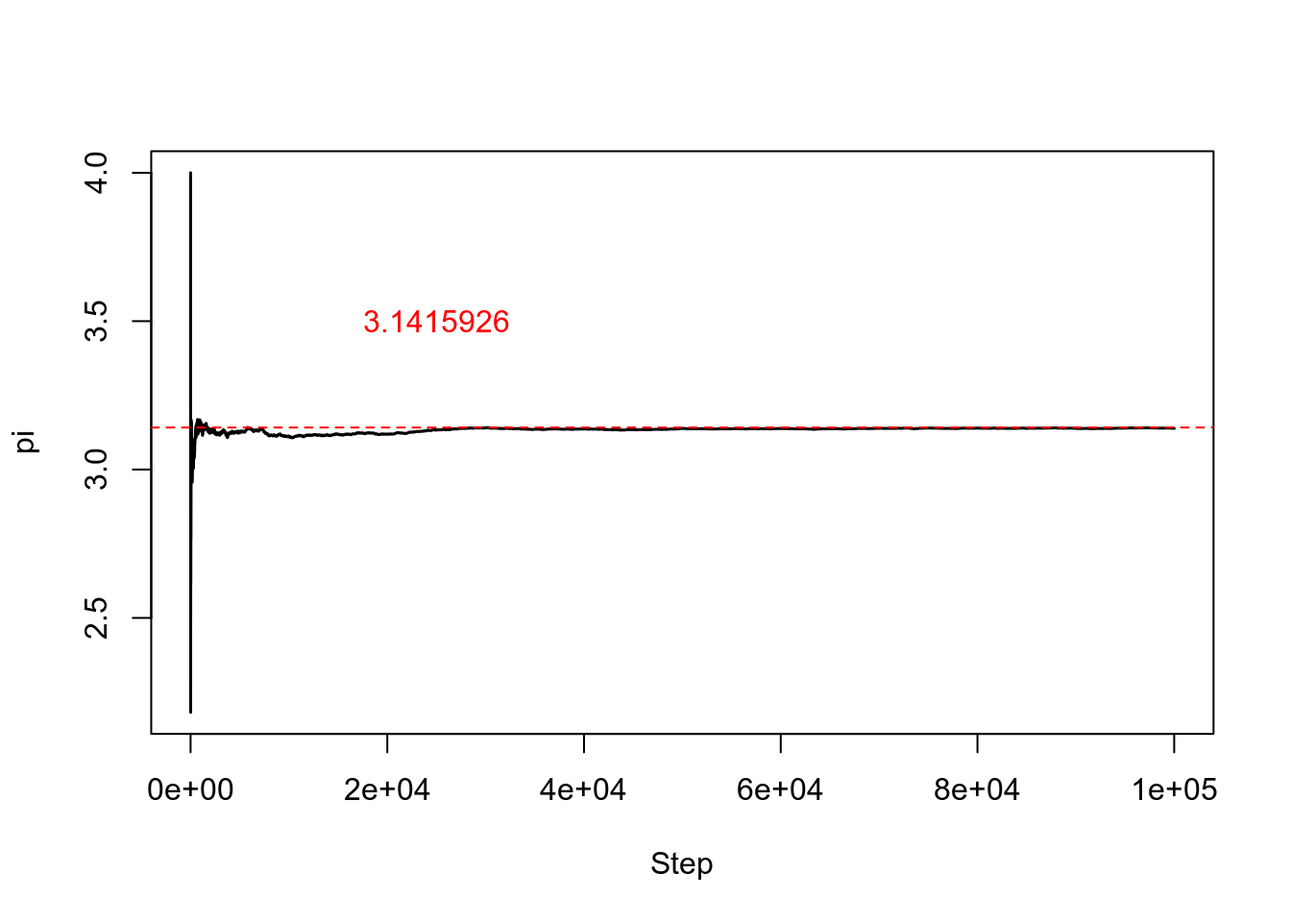
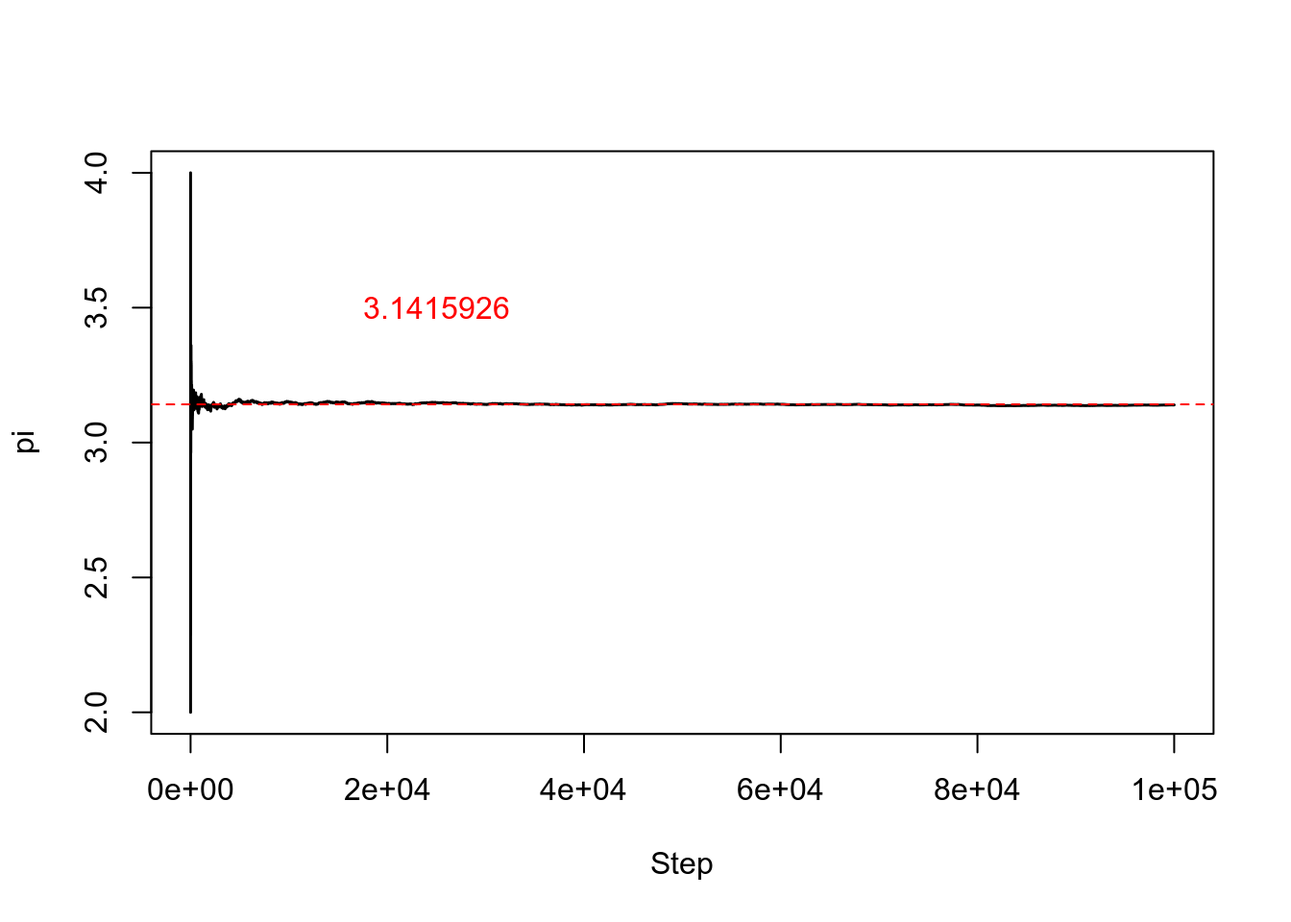
Update

diff --git a/docs/Section_02.html b/docs/Section_02.html
@@ -784,126 +784,126 @@ div.tocify {
 <a class="sourceLine" id="cb99-4" data-line-number="4">    <span class="kw">print</span>(<span class="kw">paste</span>(Daily_T,Hourly_T))</a>
 <a class="sourceLine" id="cb99-5" data-line-number="5">  }</a>
 <a class="sourceLine" id="cb99-6" data-line-number="6">}</a></code></pre></div>
-<pre><code>## [1] &quot;28 29.6744388085805&quot;
-## [1] &quot;28 27.4012870568051&quot;
-## [1] &quot;28 28.7637988334997&quot;
-## [1] &quot;28 28.5058081857116&quot;
-## [1] &quot;28 23.7769385588716&quot;
-## [1] &quot;28 28.2238910189283&quot;
-## [1] &quot;28 31.3927432581119&quot;
-## [1] &quot;28 20.487633630523&quot;
-## [1] &quot;28 23.8106293834658&quot;
-## [1] &quot;28 26.2348254862517&quot;
-## [1] &quot;28 21.0651710107857&quot;
-## [1] &quot;28 27.2263796495635&quot;
-## [1] &quot;28 21.4522353343564&quot;
-## [1] &quot;28 25.6079509452649&quot;
-## [1] &quot;28 21.0087001654877&quot;
-## [1] &quot;28 14.9533784498431&quot;
-## [1] &quot;28 26.2865859592602&quot;
-## [1] &quot;28 29.4904217704299&quot;
-## [1] &quot;28 37.3132193368315&quot;
-## [1] &quot;28 27.9445794066808&quot;
-## [1] &quot;28 34.1086614260885&quot;
-## [1] &quot;28 9.36264851099768&quot;
-## [1] &quot;28 26.1232968333402&quot;
-## [1] &quot;28 25.9718018096231&quot;
-## [1] &quot;27 35.9338242788917&quot;
-## [1] &quot;27 27.6171356132851&quot;
-## [1] &quot;27 25.5917239565176&quot;
-## [1] &quot;27 22.9672899949726&quot;
-## [1] &quot;27 28.8216742180096&quot;
-## [1] &quot;27 20.5011522096114&quot;
-## [1] &quot;27 29.4077025035996&quot;
-## [1] &quot;27 28.9766310500479&quot;
-## [1] &quot;27 30.2632421848424&quot;
-## [1] &quot;27 30.489745799776&quot;
-## [1] &quot;27 25.8090876055111&quot;
-## [1] &quot;27 36.2967261762487&quot;
-## [1] &quot;27 27.6476787201186&quot;
-## [1] &quot;27 30.5838742470374&quot;
-## [1] &quot;27 19.3498184061484&quot;
-## [1] &quot;27 28.9101153753171&quot;
-## [1] &quot;27 28.7630782854165&quot;
-## [1] &quot;27 28.7589198691777&quot;
-## [1] &quot;27 19.4153178619472&quot;
-## [1] &quot;27 30.7558599406742&quot;
-## [1] &quot;27 20.5924854368382&quot;
-## [1] &quot;27 28.0581231875197&quot;
-## [1] &quot;27 28.6534313082414&quot;
-## [1] &quot;27 22.830998606105&quot;
-## [1] &quot;28 25.5680343643089&quot;
-## [1] &quot;28 35.2513360200614&quot;
-## [1] &quot;28 30.0510420563359&quot;
-## [1] &quot;28 24.9166005661484&quot;
-## [1] &quot;28 23.2115737652699&quot;
-## [1] &quot;28 21.4950843491537&quot;
-## [1] &quot;28 28.5984740842019&quot;
-## [1] &quot;28 27.4235958632072&quot;
-## [1] &quot;28 19.2919758524679&quot;
-## [1] &quot;28 26.2202249854402&quot;
-## [1] &quot;28 36.7028853146689&quot;
-## [1] &quot;28 29.3631927877853&quot;
-## [1] &quot;28 20.3308166607558&quot;
-## [1] &quot;28 27.0940209112858&quot;
-## [1] &quot;28 29.458643239669&quot;
-## [1] &quot;28 23.0123933283896&quot;
-## [1] &quot;28 26.1173158506581&quot;
-## [1] &quot;28 30.8679543816222&quot;
-## [1] &quot;28 25.3386115994626&quot;
-## [1] &quot;28 25.9863309627653&quot;
-## [1] &quot;28 32.6146125890556&quot;
-## [1] &quot;28 21.7261517115209&quot;
-## [1] &quot;28 28.5460085937639&quot;
-## [1] &quot;28 21.636362718639&quot;
-## [1] &quot;26 24.9172051081766&quot;
-## [1] &quot;26 22.5094377208676&quot;
-## [1] &quot;26 30.5072657634151&quot;
-## [1] &quot;26 17.2964222959154&quot;
-## [1] &quot;26 18.53812157159&quot;
-## [1] &quot;26 21.8185299482445&quot;
-## [1] &quot;26 14.5332480026857&quot;
-## [1] &quot;26 27.9540921498025&quot;
-## [1] &quot;26 17.3891011443086&quot;
-## [1] &quot;26 29.0233555451144&quot;
-## [1] &quot;26 21.22715496653&quot;
-## [1] &quot;26 33.5145726087301&quot;
-## [1] &quot;26 25.2940299221819&quot;
-## [1] &quot;26 23.6176730826548&quot;
-## [1] &quot;26 25.6853809677696&quot;
-## [1] &quot;26 29.7664752506619&quot;
-## [1] &quot;26 21.0337510916283&quot;
-## [1] &quot;26 32.4314704587092&quot;
-## [1] &quot;26 23.3749252503694&quot;
-## [1] &quot;26 31.8407479884832&quot;
-## [1] &quot;26 30.5019062541723&quot;
-## [1] &quot;26 29.0618189271607&quot;
-## [1] &quot;26 23.1327053345248&quot;
-## [1] &quot;26 28.0949906801551&quot;
-## [1] &quot;27 26.4566287279606&quot;
-## [1] &quot;27 31.570020710695&quot;
-## [1] &quot;27 29.4676193004918&quot;
-## [1] &quot;27 23.3798259587071&quot;
-## [1] &quot;27 28.5974055996294&quot;
-## [1] &quot;27 29.1021816049947&quot;
-## [1] &quot;27 24.5280884643229&quot;
-## [1] &quot;27 38.4433340632149&quot;
-## [1] &quot;27 21.120542625531&quot;
-## [1] &quot;27 21.094623221894&quot;
-## [1] &quot;27 25.4430148212402&quot;
-## [1] &quot;27 32.3261330490633&quot;
-## [1] &quot;27 30.3605032082787&quot;
-## [1] &quot;27 32.9106982505751&quot;
-## [1] &quot;27 26.8261867866592&quot;
-## [1] &quot;27 20.4859950002494&quot;
-## [1] &quot;27 26.7641472981468&quot;
-## [1] &quot;27 25.5869252686455&quot;
-## [1] &quot;27 32.422047937391&quot;
-## [1] &quot;27 32.7838959096584&quot;
-## [1] &quot;27 27.5707187866963&quot;
-## [1] &quot;27 29.2771246709087&quot;
-## [1] &quot;27 29.4556642394293&quot;
-## [1] &quot;27 28.7963948077422&quot;</code></pre>
+<pre><code>## [1] &quot;28 28.5203473726&quot;
+## [1] &quot;28 29.8567225222579&quot;
+## [1] &quot;28 24.3255714012938&quot;
+## [1] &quot;28 23.359917000298&quot;
+## [1] &quot;28 27.5047867058774&quot;
+## [1] &quot;28 27.5803263102182&quot;
+## [1] &quot;28 40.6260422959401&quot;
+## [1] &quot;28 26.9123316187499&quot;
+## [1] &quot;28 20.7585458195863&quot;
+## [1] &quot;28 34.6021658916856&quot;
+## [1] &quot;28 23.2393447137747&quot;
+## [1] &quot;28 25.7430401564787&quot;
+## [1] &quot;28 20.759988636458&quot;
+## [1] &quot;28 26.5830467189796&quot;
+## [1] &quot;28 31.7213020844977&quot;
+## [1] &quot;28 29.616032164188&quot;
+## [1] &quot;28 26.4802781835367&quot;
+## [1] &quot;28 25.0419118557096&quot;
+## [1] &quot;28 27.6385161827905&quot;
+## [1] &quot;28 26.1603798748846&quot;
+## [1] &quot;28 23.42866939025&quot;
+## [1] &quot;28 26.139434773415&quot;
+## [1] &quot;28 25.8811113174888&quot;
+## [1] &quot;28 27.5730295089246&quot;
+## [1] &quot;27 33.2294525363537&quot;
+## [1] &quot;27 26.4626389960159&quot;
+## [1] &quot;27 29.626524477593&quot;
+## [1] &quot;27 28.0767820123415&quot;
+## [1] &quot;27 28.828937166439&quot;
+## [1] &quot;27 25.5372134734387&quot;
+## [1] &quot;27 28.5334470709648&quot;
+## [1] &quot;27 18.1144727125865&quot;
+## [1] &quot;27 25.2457735843059&quot;
+## [1] &quot;27 29.366102786181&quot;
+## [1] &quot;27 27.1980432588762&quot;
+## [1] &quot;27 25.9226418672989&quot;
+## [1] &quot;27 33.0411538208596&quot;
+## [1] &quot;27 22.6495882511806&quot;
+## [1] &quot;27 30.6930189858685&quot;
+## [1] &quot;27 23.0038302688558&quot;
+## [1] &quot;27 26.9693216756604&quot;
+## [1] &quot;27 37.5181583208813&quot;
+## [1] &quot;27 32.1121618241471&quot;
+## [1] &quot;27 31.4238161581358&quot;
+## [1] &quot;27 29.8698345060225&quot;
+## [1] &quot;27 28.149411974243&quot;
+## [1] &quot;27 27.8573635205279&quot;
+## [1] &quot;27 29.5334132813719&quot;
+## [1] &quot;28 26.1239577941853&quot;
+## [1] &quot;28 25.398231222205&quot;
+## [1] &quot;28 29.7696555291078&quot;
+## [1] &quot;28 32.8606539755527&quot;
+## [1] &quot;28 27.2600072128946&quot;
+## [1] &quot;28 32.0781420833166&quot;
+## [1] &quot;28 25.7767580931736&quot;
+## [1] &quot;28 39.1527987119312&quot;
+## [1] &quot;28 23.1446344298041&quot;
+## [1] &quot;28 27.6091030223128&quot;
+## [1] &quot;28 23.6051035241422&quot;
+## [1] &quot;28 21.6544177022601&quot;
+## [1] &quot;28 30.2627549465631&quot;
+## [1] &quot;28 24.2250450321364&quot;
+## [1] &quot;28 27.4975742692505&quot;
+## [1] &quot;28 35.5974613795488&quot;
+## [1] &quot;28 27.4825745201007&quot;
+## [1] &quot;28 34.6350898257966&quot;
+## [1] &quot;28 28.2190230059355&quot;
+## [1] &quot;28 24.7975217267781&quot;
+## [1] &quot;28 14.722907873256&quot;
+## [1] &quot;28 27.9907867753777&quot;
+## [1] &quot;28 28.4250035386832&quot;
+## [1] &quot;28 28.5194249552746&quot;
+## [1] &quot;26 23.2856726081448&quot;
+## [1] &quot;26 25.4024727439078&quot;
+## [1] &quot;26 33.3035292785186&quot;
+## [1] &quot;26 25.28892471328&quot;
+## [1] &quot;26 27.1632677083546&quot;
+## [1] &quot;26 24.5350721006484&quot;
+## [1] &quot;26 29.3167931383925&quot;
+## [1] &quot;26 27.7137084923301&quot;
+## [1] &quot;26 22.8332063630745&quot;
+## [1] &quot;26 21.9011526760659&quot;
+## [1] &quot;26 27.4992350887363&quot;
+## [1] &quot;26 28.7591888754518&quot;
+## [1] &quot;26 22.54829160621&quot;
+## [1] &quot;26 28.360174618127&quot;
+## [1] &quot;26 27.9989495011719&quot;
+## [1] &quot;26 28.8171905925141&quot;
+## [1] &quot;26 32.1545033352125&quot;
+## [1] &quot;26 23.326552701675&quot;
+## [1] &quot;26 28.6807026882395&quot;
+## [1] &quot;26 30.080163843398&quot;
+## [1] &quot;26 28.1717898544718&quot;
+## [1] &quot;26 24.7374144806986&quot;
+## [1] &quot;26 17.8584988213208&quot;
+## [1] &quot;26 19.2616357623659&quot;
+## [1] &quot;27 22.7577712029148&quot;
+## [1] &quot;27 22.2228856929305&quot;
+## [1] &quot;27 29.1894600480396&quot;
+## [1] &quot;27 30.9750461284902&quot;
+## [1] &quot;27 29.2209540342978&quot;
+## [1] &quot;27 28.6382872798719&quot;
+## [1] &quot;27 25.4766813257235&quot;
+## [1] &quot;27 19.3298164987683&quot;
+## [1] &quot;27 27.317810004097&quot;
+## [1] &quot;27 25.351430269635&quot;
+## [1] &quot;27 25.7030143072523&quot;
+## [1] &quot;27 26.6982381041917&quot;
+## [1] &quot;27 25.4522362315785&quot;
+## [1] &quot;27 26.7716935995133&quot;
+## [1] &quot;27 27.7301581928896&quot;
+## [1] &quot;27 24.8179193047175&quot;
+## [1] &quot;27 18.7580789893466&quot;
+## [1] &quot;27 27.7716516943355&quot;
+## [1] &quot;27 22.5816221630369&quot;
+## [1] &quot;27 24.3388481490603&quot;
+## [1] &quot;27 17.66292071149&quot;
+## [1] &quot;27 21.9900016478595&quot;
+## [1] &quot;27 23.3327216288855&quot;
+## [1] &quot;27 26.3004093165131&quot;</code></pre>
 <p>Here at each <code>Hour</code> we use the <code>rnorm()</code> function to generate <code>1</code> random Gaussian sample with a mean of <code>Daily_T</code> and a standard deviation of <code>5</code>.</p>
 <p>We notice in the output that when the first index (<code>Daily_T</code>) is set to <code>28</code>, the second index (<code>Hour</code>) iterates through its full set of indices. Once the indices of <code>Hour</code> have been iterated through, then <code>Daily_T</code> moves to the next one (<em>i.e.</em>, <code>27</code>). This process continues until the last index has been used for each <code>for()</code> loop.</p>
 <p>Rather than printing the results, we could write the loop output to a new <em>object</em>:</p>
@@ -917,26 +917,26 @@ div.tocify {
 <a class="sourceLine" id="cb101-8" data-line-number="8">}</a>
 <a class="sourceLine" id="cb101-9" data-line-number="9"></a>
 <a class="sourceLine" id="cb101-10" data-line-number="10"><span class="kw">print</span>(Output_List)</a></code></pre></div>
-<pre><code>##   [1] &quot;28 27.9213441990281&quot; &quot;28 26.5761242354722&quot; &quot;28 20.6756852550638&quot; &quot;28 24.0840084504633&quot; &quot;28 33.5592287937686&quot; &quot;28 31.0144018011512&quot;
-##   [7] &quot;28 29.5377298092579&quot; &quot;28 32.7160958181988&quot; &quot;28 24.6226933324697&quot; &quot;28 31.9664463028712&quot; &quot;28 23.8941298728601&quot; &quot;28 30.0979559606749&quot;
-##  [13] &quot;28 39.2571893150734&quot; &quot;28 22.7175284129168&quot; &quot;28 37.5086771249077&quot; &quot;28 35.0665585186027&quot; &quot;28 24.2206544063925&quot; &quot;28 23.0154136474806&quot;
-##  [19] &quot;28 31.6282374078791&quot; &quot;28 20.761767430514&quot;  &quot;28 25.373501617015&quot;  &quot;28 33.0912035880969&quot; &quot;28 23.9530747196136&quot; &quot;28 32.0036821080584&quot;
-##  [25] &quot;27 24.3135106749697&quot; &quot;27 25.9781035721444&quot; &quot;27 28.9002649838499&quot; &quot;27 32.7377522456248&quot; &quot;27 23.7303160345988&quot; &quot;27 26.127164394269&quot; 
-##  [31] &quot;27 32.9857139922405&quot; &quot;27 26.9379089940996&quot; &quot;27 28.1589692080047&quot; &quot;27 26.5775985275108&quot; &quot;27 25.2821148656311&quot; &quot;27 34.5098778866584&quot;
-##  [37] &quot;27 21.7191210044909&quot; &quot;27 35.2865843885519&quot; &quot;27 31.2060954018028&quot; &quot;27 21.7008523487989&quot; &quot;27 27.0147486703075&quot; &quot;27 20.796057308874&quot; 
-##  [43] &quot;27 16.3694653413377&quot; &quot;27 22.8962902370385&quot; &quot;27 27.3354416140579&quot; &quot;27 28.9244594280794&quot; &quot;27 26.6022292542626&quot; &quot;27 32.0273648368767&quot;
-##  [49] &quot;28 38.7587700594925&quot; &quot;28 38.0563215477142&quot; &quot;28 27.004080184577&quot;  &quot;28 30.1832754844835&quot; &quot;28 19.6891862174256&quot; &quot;28 34.8235381426307&quot;
-##  [55] &quot;28 40.8487032034499&quot; &quot;28 24.3282659313597&quot; &quot;28 24.4550164826587&quot; &quot;28 25.2814696831749&quot; &quot;28 27.9790954115158&quot; &quot;28 22.4036076586669&quot;
-##  [61] &quot;28 32.9339635283036&quot; &quot;28 26.8419979627695&quot; &quot;28 32.7361578733019&quot; &quot;28 29.6732417945083&quot; &quot;28 22.0386111746376&quot; &quot;28 25.7607672971092&quot;
-##  [67] &quot;28 30.2842784670114&quot; &quot;28 35.0459872993593&quot; &quot;28 31.902200112414&quot;  &quot;28 18.8410608809311&quot; &quot;28 24.3736141436853&quot; &quot;28 30.684080147265&quot; 
-##  [73] &quot;26 29.5398966554751&quot; &quot;26 19.7075930847319&quot; &quot;26 25.509084559148&quot;  &quot;26 26.9585243477346&quot; &quot;26 30.3421914587566&quot; &quot;26 30.2879025821351&quot;
-##  [79] &quot;26 27.9068147213418&quot; &quot;26 25.2041260320341&quot; &quot;26 21.8459009732687&quot; &quot;26 19.5088731709808&quot; &quot;26 23.4298051230572&quot; &quot;26 24.6641766891913&quot;
-##  [85] &quot;26 32.6762300353602&quot; &quot;26 26.9850536092177&quot; &quot;26 30.024342717169&quot;  &quot;26 22.4293372805145&quot; &quot;26 22.6093058711638&quot; &quot;26 24.0107334213927&quot;
-##  [91] &quot;26 28.9647121241304&quot; &quot;26 24.1218724417364&quot; &quot;26 15.1542820915823&quot; &quot;26 31.5209016276321&quot; &quot;26 12.2711857762894&quot; &quot;26 21.5510352864343&quot;
-##  [97] &quot;27 20.1702538210369&quot; &quot;27 31.0131566999536&quot; &quot;27 26.2961643971118&quot; &quot;27 20.369920649569&quot;  &quot;27 33.2273840368351&quot; &quot;27 20.556714089822&quot; 
-## [103] &quot;27 33.5057917374892&quot; &quot;27 31.0643449624124&quot; &quot;27 23.9113459885551&quot; &quot;27 24.951434853857&quot;  &quot;27 21.2511551551434&quot; &quot;27 20.715480915084&quot; 
-## [109] &quot;27 35.0529400165995&quot; &quot;27 32.0613530241306&quot; &quot;27 28.0682977210073&quot; &quot;27 38.4854217120985&quot; &quot;27 19.5799861029875&quot; &quot;27 32.7881822464164&quot;
-## [115] &quot;27 24.9292155549766&quot; &quot;27 23.2738105231541&quot; &quot;27 24.3956599947915&quot; &quot;27 23.1030697736767&quot; &quot;27 29.9152315522481&quot; &quot;27 23.6778825604713&quot;</code></pre>
+<pre><code>##   [1] &quot;28 33.9294152054925&quot; &quot;28 25.3060747851852&quot; &quot;28 27.1930137624551&quot; &quot;28 41.0879887766354&quot; &quot;28 19.8979478543381&quot; &quot;28 32.3041504224614&quot;
+##   [7] &quot;28 23.5051264384035&quot; &quot;28 28.1846910956922&quot; &quot;28 27.9845071751903&quot; &quot;28 26.8569603785333&quot; &quot;28 34.5134288495436&quot; &quot;28 35.5525429245087&quot;
+##  [13] &quot;28 35.767111848357&quot;  &quot;28 27.4977309722429&quot; &quot;28 35.8378912924308&quot; &quot;28 25.5722628864578&quot; &quot;28 31.2641009861566&quot; &quot;28 19.6729759056108&quot;
+##  [19] &quot;28 26.0413056811166&quot; &quot;28 22.1031785317414&quot; &quot;28 20.8213148282127&quot; &quot;28 28.4254001577688&quot; &quot;28 29.783254807574&quot;  &quot;28 33.0836226825879&quot;
+##  [25] &quot;27 20.4441561201301&quot; &quot;27 31.3951679394279&quot; &quot;27 18.8018724238299&quot; &quot;27 25.7217268403832&quot; &quot;27 22.7412392108788&quot; &quot;27 28.9985264364984&quot;
+##  [31] &quot;27 30.2585011452224&quot; &quot;27 30.9737625952636&quot; &quot;27 29.560801177125&quot;  &quot;27 31.0228868009981&quot; &quot;27 23.5323134662271&quot; &quot;27 28.2765576055561&quot;
+##  [37] &quot;27 14.6154393944821&quot; &quot;27 33.8522666170453&quot; &quot;27 37.5423503861746&quot; &quot;27 25.7334826798523&quot; &quot;27 22.26456380279&quot;   &quot;27 22.1548399489591&quot;
+##  [43] &quot;27 29.2825348694902&quot; &quot;27 27.6848280181523&quot; &quot;27 27.9831604125515&quot; &quot;27 31.9769102131404&quot; &quot;27 33.0352839472289&quot; &quot;27 33.1107577354079&quot;
+##  [49] &quot;28 21.1651467065001&quot; &quot;28 20.7122149917504&quot; &quot;28 23.5019732146498&quot; &quot;28 23.6376282096579&quot; &quot;28 19.6419048235193&quot; &quot;28 25.391570869299&quot; 
+##  [55] &quot;28 28.6905351977948&quot; &quot;28 29.2051618018101&quot; &quot;28 25.0421643290245&quot; &quot;28 28.4587544452584&quot; &quot;28 26.2876588882981&quot; &quot;28 29.237986330029&quot; 
+##  [61] &quot;28 29.6775450272903&quot; &quot;28 32.1842522860615&quot; &quot;28 33.8892353956697&quot; &quot;28 27.9324902972241&quot; &quot;28 28.8458749981297&quot; &quot;28 20.8150707414374&quot;
+##  [67] &quot;28 35.6709363316221&quot; &quot;28 26.4655641950104&quot; &quot;28 27.4079956401864&quot; &quot;28 26.3032993774204&quot; &quot;28 26.107442123543&quot;  &quot;28 24.3052469505083&quot;
+##  [73] &quot;26 31.8731457792471&quot; &quot;26 20.0590262737721&quot; &quot;26 24.1009500848027&quot; &quot;26 31.103570675403&quot;  &quot;26 24.7257242490613&quot; &quot;26 23.8615254551108&quot;
+##  [79] &quot;26 16.2175011384569&quot; &quot;26 28.5911603220102&quot; &quot;26 28.4033994695427&quot; &quot;26 25.7565505003411&quot; &quot;26 24.4656838663904&quot; &quot;26 21.3338289647166&quot;
+##  [85] &quot;26 28.9847813112783&quot; &quot;26 29.4389750739868&quot; &quot;26 25.0388958461353&quot; &quot;26 22.7173183639716&quot; &quot;26 28.9140331932851&quot; &quot;26 19.8421145234758&quot;
+##  [91] &quot;26 32.2241157691078&quot; &quot;26 28.2029181217667&quot; &quot;26 20.3625620615812&quot; &quot;26 30.5918387491612&quot; &quot;26 19.5022961252912&quot; &quot;26 28.3581029321038&quot;
+##  [97] &quot;27 26.7195045597075&quot; &quot;27 34.9182001683988&quot; &quot;27 31.0702718031583&quot; &quot;27 25.3072223120803&quot; &quot;27 22.6013736594138&quot; &quot;27 29.4135975943558&quot;
+## [103] &quot;27 35.00603359216&quot;   &quot;27 32.5159394849905&quot; &quot;27 21.3538232737478&quot; &quot;27 25.6006129774197&quot; &quot;27 25.3459490000201&quot; &quot;27 32.5140854994036&quot;
+## [109] &quot;27 31.9843730585127&quot; &quot;27 34.6192056977642&quot; &quot;27 30.6060961455537&quot; &quot;27 23.4969244667469&quot; &quot;27 29.1783400792292&quot; &quot;27 20.6840359578125&quot;
+## [115] &quot;27 30.2588830673374&quot; &quot;27 23.0782333662094&quot; &quot;27 37.0858531862922&quot; &quot;27 21.618186263877&quot;  &quot;27 31.3772643547228&quot; &quot;27 23.4790799640886&quot;</code></pre>
 <p>This approach can be useful, but “growing your results” (building the result object incrementally) is <strong>computationally inefficient</strong>, so avoid it when you are iterating through a lot of values.</p>
 <p><strong>Important</strong>: One of the biggest things that trips up novices and experienced R users alike, is building a results object (<em>vector</em>, <em>list</em>, <em>matrix</em>, <em>data frame</em>) as your for loop progresses. Computers are very bad at handling this, so your calculations can very quickly slow to a crawl. It’s much better to define an <strong>empty results object</strong> beforehand of appropriate dimensions, rather than initializing an empty object without dimensions. So if you know the end result will be stored in a matrix-like above, create an empty matrix with <code>5</code> row and <code>24</code> columns, then at each iteration stores the results in the appropriate location.</p>
 <div class="sourceCode" id="cb103"><pre class="sourceCode r"><code class="sourceCode r"><a class="sourceLine" id="cb103-1" data-line-number="1">Output_Matrix    &lt;-<span class="st"> </span><span class="kw">matrix</span>(<span class="dt">nrow=</span><span class="dv">5</span>, <span class="dt">ncol=</span><span class="dv">24</span>)</a>
@@ -950,26 +950,26 @@ div.tocify {
 <a class="sourceLine" id="cb103-9" data-line-number="9">}</a>
 <a class="sourceLine" id="cb103-10" data-line-number="10">Output_Matrix2 &lt;-<span class="st"> </span><span class="kw">as.vector</span>(Output_Matrix)</a>
 <a class="sourceLine" id="cb103-11" data-line-number="11">Output_Matrix2</a></code></pre></div>
-<pre><code>##   [1] &quot;28 26.9973512707264&quot; &quot;27 22.0005568885176&quot; &quot;28 22.9526029840331&quot; &quot;26 23.6346722560231&quot; &quot;27 27.1338201905649&quot; &quot;28 28.0243829767442&quot;
-##   [7] &quot;27 33.4630110805913&quot; &quot;28 12.6764845903665&quot; &quot;26 14.6019278852403&quot; &quot;27 21.1446194198811&quot; &quot;28 28.7547833155774&quot; &quot;27 33.0168104577772&quot;
-##  [13] &quot;28 27.7930152969528&quot; &quot;26 23.1738057523555&quot; &quot;27 26.0142016247349&quot; &quot;28 30.3627429588951&quot; &quot;27 28.2494831675139&quot; &quot;28 25.3102684752284&quot;
-##  [19] &quot;26 35.9719562415039&quot; &quot;27 31.5060478283057&quot; &quot;28 32.7069618715868&quot; &quot;27 25.3966621085007&quot; &quot;28 26.0779577875407&quot; &quot;26 10.3878262341955&quot;
-##  [25] &quot;27 23.5526452011224&quot; &quot;28 22.6967125737084&quot; &quot;27 19.5111049740388&quot; &quot;28 28.0592304783506&quot; &quot;26 31.0804307408716&quot; &quot;27 31.7959811997342&quot;
-##  [31] &quot;28 36.5336496905236&quot; &quot;27 28.4128453235108&quot; &quot;28 32.3306171696235&quot; &quot;26 19.3213990742264&quot; &quot;27 28.3715391126557&quot; &quot;28 18.4438617281665&quot;
-##  [37] &quot;27 17.8323748814752&quot; &quot;28 22.107079312802&quot;  &quot;26 24.2797181661078&quot; &quot;27 29.161796997209&quot;  &quot;28 39.4601076956966&quot; &quot;27 30.7414272650752&quot;
-##  [43] &quot;28 27.1665593564684&quot; &quot;26 20.5344450158271&quot; &quot;27 23.0169901694081&quot; &quot;28 19.1385253494344&quot; &quot;27 27.9882132199026&quot; &quot;28 21.4705732647758&quot;
-##  [49] &quot;26 30.8070327256172&quot; &quot;27 32.1047746580533&quot; &quot;28 13.9825583696442&quot; &quot;27 32.8211288754374&quot; &quot;28 32.3895822933634&quot; &quot;26 28.1890631633708&quot;
-##  [55] &quot;27 19.0313447989609&quot; &quot;28 25.2301887476755&quot; &quot;27 31.0306952145933&quot; &quot;28 27.8857418697533&quot; &quot;26 27.4713276561054&quot; &quot;27 20.6316690942855&quot;
-##  [61] &quot;28 37.3612268746202&quot; &quot;27 26.6309168198463&quot; &quot;28 32.4465408678168&quot; &quot;26 30.6345041346007&quot; &quot;27 29.4479132922708&quot; &quot;28 26.3804152046903&quot;
-##  [67] &quot;27 27.3599933724447&quot; &quot;28 32.224505007817&quot;  &quot;26 30.093690127337&quot;  &quot;27 34.1778328165426&quot; &quot;28 22.650013225021&quot;  &quot;27 27.6565083475854&quot;
-##  [73] &quot;28 26.6386373669437&quot; &quot;26 28.9052955234798&quot; &quot;27 32.2049510013909&quot; &quot;28 32.4843208633791&quot; &quot;27 29.2806070419436&quot; &quot;28 29.9107143279775&quot;
-##  [79] &quot;26 27.2465726357159&quot; &quot;27 24.3715133673669&quot; &quot;28 23.8488237317963&quot; &quot;27 27.6212273715854&quot; &quot;28 31.8813335209282&quot; &quot;26 16.1242002497669&quot;
-##  [85] &quot;27 27.0589827938141&quot; &quot;28 28.7150888266976&quot; &quot;27 29.1747285473463&quot; &quot;28 33.5815077639439&quot; &quot;26 20.2880182477447&quot; &quot;27 21.5449817306979&quot;
-##  [91] &quot;28 32.1709624908535&quot; &quot;27 36.1626903675003&quot; &quot;28 32.4676130467136&quot; &quot;26 31.7742452499902&quot; &quot;27 22.8675855680406&quot; &quot;28 37.2947114689322&quot;
-##  [97] &quot;27 28.5800476230911&quot; &quot;28 22.1301971247288&quot; &quot;26 25.3162492068271&quot; &quot;27 24.5844853935916&quot; &quot;28 27.1941593304091&quot; &quot;27 23.7437142919091&quot;
-## [103] &quot;28 27.9516326726235&quot; &quot;26 19.2561321892133&quot; &quot;27 24.8742761169051&quot; &quot;28 26.8528222253426&quot; &quot;27 24.141679909815&quot;  &quot;28 33.2231300545563&quot;
-## [109] &quot;26 28.8505900196766&quot; &quot;27 27.5599216762732&quot; &quot;28 23.7947343042173&quot; &quot;27 24.312577506446&quot;  &quot;28 28.1401888832194&quot; &quot;26 21.4761660502353&quot;
-## [115] &quot;27 30.2239947653997&quot; &quot;28 37.319568990894&quot;  &quot;27 29.7347189134744&quot; &quot;28 23.2793314988755&quot; &quot;26 30.2686596684757&quot; &quot;27 24.6836912806353&quot;</code></pre>
+<pre><code>##   [1] &quot;28 28.5409345294627&quot; &quot;27 32.5348623345225&quot; &quot;28 23.1415628229932&quot; &quot;26 25.9911443690935&quot; &quot;27 27.948805121641&quot;  &quot;28 28.7895220444746&quot;
+##   [7] &quot;27 22.0536756448938&quot; &quot;28 19.0361832343768&quot; &quot;26 33.0321463161779&quot; &quot;27 17.1315622406557&quot; &quot;28 21.8077979964713&quot; &quot;27 18.2934689472492&quot;
+##  [13] &quot;28 29.3603548150351&quot; &quot;26 26.5589536466656&quot; &quot;27 31.8453628674607&quot; &quot;28 34.2140282991574&quot; &quot;27 28.7979241233569&quot; &quot;28 25.253026531923&quot; 
+##  [19] &quot;26 28.1085972878407&quot; &quot;27 26.0052641339814&quot; &quot;28 34.8875911437456&quot; &quot;27 24.4447350171089&quot; &quot;28 33.2939154610865&quot; &quot;26 27.5442592880496&quot;
+##  [25] &quot;27 29.026728786242&quot;  &quot;28 26.4414810857719&quot; &quot;27 29.3768902657854&quot; &quot;28 32.5721651407999&quot; &quot;26 23.3343855248186&quot; &quot;27 26.948779545046&quot; 
+##  [31] &quot;28 20.0176526157753&quot; &quot;27 17.636866726724&quot;  &quot;28 18.3296118865318&quot; &quot;26 32.2962238868712&quot; &quot;27 29.7034925004624&quot; &quot;28 32.9740809348455&quot;
+##  [37] &quot;27 34.5452804512463&quot; &quot;28 22.8777071886004&quot; &quot;26 29.5476774962533&quot; &quot;27 18.8637478874211&quot; &quot;28 26.6650888486861&quot; &quot;27 22.0252709874732&quot;
+##  [43] &quot;28 31.8883781228792&quot; &quot;26 17.5117999003321&quot; &quot;27 29.0661121379458&quot; &quot;28 24.1543998284525&quot; &quot;27 23.3902190860741&quot; &quot;28 31.9084077782808&quot;
+##  [49] &quot;26 22.3652199966147&quot; &quot;27 33.2316785221604&quot; &quot;28 24.9391839952587&quot; &quot;27 23.4760093008176&quot; &quot;28 28.0671057997276&quot; &quot;26 24.420440587&quot;    
+##  [55] &quot;27 29.4790869929927&quot; &quot;28 34.4596664892736&quot; &quot;27 21.7813494403761&quot; &quot;28 36.7231391815287&quot; &quot;26 22.0665797127061&quot; &quot;27 25.3827517979712&quot;
+##  [61] &quot;28 26.5622610828008&quot; &quot;27 28.4170725476449&quot; &quot;28 32.5633672025152&quot; &quot;26 30.2100814972591&quot; &quot;27 26.3742749339172&quot; &quot;28 27.2050455721923&quot;
+##  [67] &quot;27 24.5503396236934&quot; &quot;28 26.3010055823294&quot; &quot;26 15.9136762702619&quot; &quot;27 32.5371742276011&quot; &quot;28 32.9800294566426&quot; &quot;27 25.7175271206819&quot;
+##  [73] &quot;28 27.6184240196605&quot; &quot;26 28.4361862327209&quot; &quot;27 20.6774273544664&quot; &quot;28 24.8151252840406&quot; &quot;27 26.0500011000763&quot; &quot;28 36.3645154802668&quot;
+##  [79] &quot;26 27.3881076665405&quot; &quot;27 34.3282241151251&quot; &quot;28 23.6403649232072&quot; &quot;27 40.1720073415173&quot; &quot;28 28.7208286588055&quot; &quot;26 31.1542188074607&quot;
+##  [85] &quot;27 24.0255742360689&quot; &quot;28 19.7264433789323&quot; &quot;27 23.4383125906552&quot; &quot;28 35.8372446198968&quot; &quot;26 23.2989372338466&quot; &quot;27 24.708035164098&quot; 
+##  [91] &quot;28 24.4602775895994&quot; &quot;27 20.46430157068&quot;   &quot;28 29.0992724959012&quot; &quot;26 24.1008190787457&quot; &quot;27 31.3148745762648&quot; &quot;28 25.2822284088084&quot;
+##  [97] &quot;27 27.7480091589778&quot; &quot;28 21.5484868059625&quot; &quot;26 15.6900727758275&quot; &quot;27 24.30520494825&quot;   &quot;28 28.5759460434941&quot; &quot;27 23.9152474732601&quot;
+## [103] &quot;28 29.5335232908301&quot; &quot;26 32.7100156439305&quot; &quot;27 28.3712300219941&quot; &quot;28 24.4089119694224&quot; &quot;27 31.9573545028362&quot; &quot;28 27.312976707658&quot; 
+## [109] &quot;26 24.963206484718&quot;  &quot;27 29.6238157424392&quot; &quot;28 32.7062247009797&quot; &quot;27 26.8318199698278&quot; &quot;28 22.3470498922871&quot; &quot;26 31.6501643827527&quot;
+## [115] &quot;27 17.7052064023827&quot; &quot;28 30.0176206475782&quot; &quot;27 32.0213256252062&quot; &quot;28 18.282666250632&quot;  &quot;26 28.9002748117902&quot; &quot;27 26.3533496214435&quot;</code></pre>
 <p>Here we use <code>matrix()</code> to create an empty matrix with <code>5</code> rows and <code>24</code> columns, and use <code>as.vector()</code> to convert the <code>5x24</code> matrix into a vector with a length of <code>120</code>.</p>
 <p>Sometimes you will find yourself needing to repeat an operation as long as a certain condition is met. You can do this with a <code>while()</code> loop.</p>
 <div class="sourceCode" id="cb105"><pre class="sourceCode r"><code class="sourceCode r"><a class="sourceLine" id="cb105-1" data-line-number="1">z &lt;-<span class="st"> </span><span class="dv">0</span></a>
@@ -1095,11 +1095,11 @@ div.tocify {
 <a class="sourceLine" id="cb111-9" data-line-number="9"><span class="kw">print</span>(<span class="st">&quot;How many students pass:&quot;</span>)</a></code></pre></div>
 <pre><code>## [1] &quot;How many students pass:&quot;</code></pre>
 <div class="sourceCode" id="cb113"><pre class="sourceCode r"><code class="sourceCode r"><a class="sourceLine" id="cb113-1" data-line-number="1"><span class="kw">print</span>(PassStudents)</a></code></pre></div>
-<pre><code>## [1] 13</code></pre>
+<pre><code>## [1] 17</code></pre>
 <div class="sourceCode" id="cb115"><pre class="sourceCode r"><code class="sourceCode r"><a class="sourceLine" id="cb115-1" data-line-number="1"><span class="kw">print</span>(<span class="st">&quot;Pass ratio is:&quot;</span>)</a></code></pre></div>
 <pre><code>## [1] &quot;Pass ratio is:&quot;</code></pre>
 <div class="sourceCode" id="cb117"><pre class="sourceCode r"><code class="sourceCode r"><a class="sourceLine" id="cb117-1" data-line-number="1"><span class="kw">print</span>(PassStudents<span class="op">/</span>TotalStudents)</a></code></pre></div>
-<pre><code>## [1] 0.325</code></pre>
+<pre><code>## [1] 0.425</code></pre>
 <ul>
 <li>Can you explain what this script does? Use the following flowchart <a href="#fn6" class="footnote-ref" id="fnref6"><sup>6</sup></a> for help.</li>
 </ul>
@@ -1127,8 +1127,6 @@ div.tocify {
 <ul>
 <li><code>ggplot2</code></li>
 <li><code>plyr</code></li>
-<li><code>dplyr</code></li>
-<li><code>tidyr</code></li>
 <li><code>gapminder</code></li>
 <li><code>lubridate</code></li>
 </ul></li>

diff --git a/docs/Section_01.html b/docs/Section_01.html
@@ -737,7 +737,7 @@ Hopefully, this course will make your life easier when it comes to interpret and
 <a class="sourceLine" id="cb2-7" data-line-number="7"><span class="kw">text</span>(<span class="fl">0.25</span><span class="op">*</span>TotalDraw,<span class="fl">3.5</span>,<span class="st">&quot;3.1415926&quot;</span>,<span class="dt">cex=</span><span class="dv">1</span>,<span class="dt">col=</span><span class="st">&quot;red&quot;</span>)</a></code></pre></div>
 <p><img src="Section_01_files/figure-html/unnamed-chunk-2-1.png" width="672" /></p>
 <div class="sourceCode" id="cb3"><pre class="sourceCode r"><code class="sourceCode r"><a class="sourceLine" id="cb3-1" data-line-number="1"><span class="kw">print</span>(<span class="kw">paste</span>(<span class="st">&quot;Mean Pi from the last 100 steps is: &quot;</span>,<span class="kw">mean</span>(Results[TotalDraw<span class="dv">-99</span><span class="op">:</span>TotalDraw])))</a></code></pre></div>
-<pre><code>## [1] &quot;Mean Pi from the last 100 steps is:  3.11464634385256&quot;</code></pre>
+<pre><code>## [1] &quot;Mean Pi from the last 100 steps is:  3.18994416851299&quot;</code></pre>
 <p>Simulation with 100,000 random points yields a better result</p>
 <div class="sourceCode" id="cb5"><pre class="sourceCode r"><code class="sourceCode r"><a class="sourceLine" id="cb5-1" data-line-number="1"><span class="co"># Draw 1E5 points</span></a>
 <a class="sourceLine" id="cb5-2" data-line-number="2">TotalDraw &lt;-<span class="st"> </span><span class="fl">1E5</span></a>
@@ -748,7 +748,7 @@ Hopefully, this course will make your life easier when it comes to interpret and
 <a class="sourceLine" id="cb5-7" data-line-number="7"><span class="kw">text</span>(<span class="fl">0.25</span><span class="op">*</span>TotalDraw,<span class="fl">3.5</span>,<span class="st">&quot;3.1415926&quot;</span>,<span class="dt">cex=</span><span class="dv">1</span>,<span class="dt">col=</span><span class="st">&quot;red&quot;</span>)</a></code></pre></div>
 <p><img src="Section_01_files/figure-html/unnamed-chunk-3-1.png" width="672" /></p>
 <div class="sourceCode" id="cb6"><pre class="sourceCode r"><code class="sourceCode r"><a class="sourceLine" id="cb6-1" data-line-number="1"><span class="kw">print</span>(<span class="kw">paste</span>(<span class="st">&quot;Mean Pi from the last 100 steps is: &quot;</span>,<span class="kw">mean</span>(Results[TotalDraw<span class="dv">-99</span><span class="op">:</span>TotalDraw])))</a></code></pre></div>
-<pre><code>## [1] &quot;Mean Pi from the last 100 steps is:  3.13357771908288&quot;</code></pre>
+<pre><code>## [1] &quot;Mean Pi from the last 100 steps is:  3.14182151050833&quot;</code></pre>
 <hr />
 </div>
 </div>
